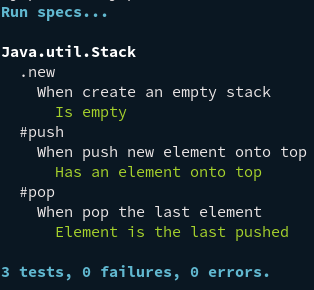
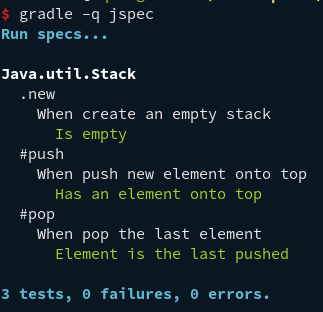
improve installation and use readme sections

diff --git a/README.md b/README.md
@@ -17,25 +17,47 @@ An RSpec like micro framework for java language.
 
 * **jspec-core**: The jspec framework.
 * **jspec-plugin**: The spec gradle plugin. This allow run tests from console.
-
+* **jspec-test**: A sample test module.
 
 ### Install
 
-Install jspec-plugin/code in local maven repository
-
+**Step 1:** Clone the project.
 ```bash
-gradle clean install -PexcludeTest
+git clone https://github.com/adrianmarino/jspec.git
 ```
 
-### Test
+**Step 2:** Install jspec core & gradle plugin to local maven repository.
+```bash
+gradle clean install -PexcludeTest; gradle build
+```
 
+**Step 3:** Run sample _StackSpec_ to check that all it working.
 ```bash
 gradle -q jspec
 ```
+You should view the next output:
+
+![rspec output](https://raw.githubusercontent.com/adrianmarino/jspec/master/jspec-test/console.png)
+
 
 ### Use
 
-Step 1: Describe a specification
+**Step 1:** Add plugin to build.gradle.
+```groovy
+apply plugin: 'jspec'
+
+buildscript {
+	repositories {
+		mavenLocal()
+		mavenCentral()
+	}
+	dependencies {
+		classpath 'ar.com.nonosoft:jspec-plugin:0.0.1'
+	}
+}
+```
+
+**Step 2:** Describe a spec.
 
 ```java
 public class StackSpec extends Spec<Stack> {{
@@ -72,10 +94,15 @@ public class StackSpec extends Spec<Stack> {{
 }}
 ```
 
-Step 2: Run tests
+**Step 3:** Run all specs.
+```bash
+gradle -q jspec
+```
 
-![rspec output](https://raw.githubusercontent.com/adrianmarino/jspec/master/jspec-test/console.png)
-
+Also could run specs in a particular package.
+```bash
+gradle -q jspec -Ppck=ar.nonosoft.test
+```
 
 ### TODO
 
